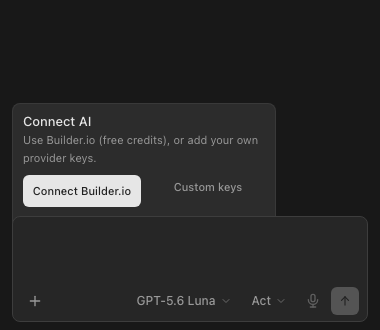
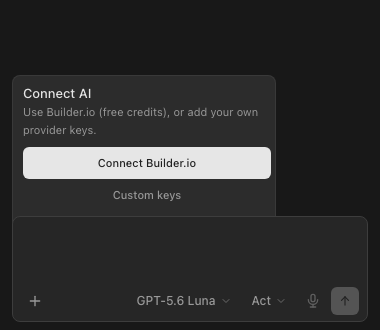
chore: publish branch work in .screenshots/chat-right-sidebar-provider-actions-equal-width.png, .screenshots/chat-right-sidebar-provider-actions-full-width-stacked.png, .screenshots/chat-web-provider-actions-equal-width.png, … (19 files)

Changed region(s): [[0.0579, 0.3333, 0.7237, 0.6364], [0.0579, 0.2727, 0.2605, 0.303], [0.6947, 0.2121, 0.7237, 0.2424]]

diff --git a/packages/mobile-app/app/(tabs)/sessions.tsx b/packages/mobile-app/app/(tabs)/sessions.tsx
@@ -540,7 +540,7 @@ export default function SessionsScreen() {
           )}
           {notice && (
             <View className="flex-row items-center gap-2 p-3 rounded-lg bg-success-bg border border-success-border my-2">
-              <Feather name="check-circle" size={16} color="#86EFAC" />
+              <Feather name="check-circle" size={16} color="#d4d4d8" />
               <Text className="flex-1 text-success-text text-sm">{notice}</Text>
             </View>
           )}
@@ -956,7 +956,7 @@ function StepRow({ index, text }: { index: string; text: string }) {
 function RelayPill({ state }: { state: RelayState }) {
   const color =
     state === "online"
-      ? "#86EFAC"
+      ? "#d4d4d8"
       : state === "offline"
         ? "#FCA5A5"
         : state === "error"
@@ -1100,7 +1100,7 @@ function HostControls({
             <Feather
               name={pushDone ? "bell" : "bell-off"}
               size={14}
-              color={pushDone ? "#86EFAC" : "#ffffff"}
+              color={pushDone ? "#d4d4d8" : "#ffffff"}
             />
           )}
           <Text
@@ -1300,7 +1300,7 @@ function EmptyInline({
 }
 
 function hostStatusColor(status: RemoteHostStatus): string {
-  if (status === "online") return "#86EFAC";
+  if (status === "online") return "#d4d4d8";
   if (status === "busy") return "#FBBF24";
   if (status === "offline") return "#6B7280";
   return "#9CA3AF";
@@ -1314,7 +1314,7 @@ function hostStatusLabel(host: RemoteHost): string {
 }
 
 function runStatusColor(status: RemoteRunStatus): string {
-  if (status === "completed") return "#86EFAC";
+  if (status === "completed") return "#d4d4d8";
   if (status === "needs-approval") return "#FBBF24";
   if (status === "errored") return "#FCA5A5";
   if (status === "running" || status === "queued") return "#93C5FD";
@@ -1322,7 +1322,7 @@ function runStatusColor(status: RemoteRunStatus): string {
 }
 
 function runStatusBg(status: RemoteRunStatus): string {
-  if (status === "completed") return "#052E16";
+  if (status === "completed") return "#27272a";
   if (status === "needs-approval") return "#422006";
   if (status === "errored") return "#450A0A";
   if (status === "running" || status === "queued") return "#172554";

diff --git a/packages/mobile-app/components/DictationSettings.tsx b/packages/mobile-app/components/DictationSettings.tsx
@@ -182,7 +182,7 @@ export default function DictationSettings() {
                   )
                 }
                 className={`flex-row items-center gap-2.5 px-2.75 py-2.5 border border-border-dim rounded-xl bg-background-pure active:opacity-70 ${
-                  selected ? "border-accent-lime-bright/50 bg-[#20251a]" : ""
+                  selected ? "border-accent-neutral-bright/50 bg-gray-charcoal" : ""
                 }`}
               >
                 <View className="flex-1">
@@ -196,7 +196,7 @@ export default function DictationSettings() {
                 <View
                   className={`w-5 h-5 rounded-full border border-gray-border-dark items-center justify-center ${
                     selected
-                      ? "bg-accent-lime-bright border-accent-lime-bright"
+                      ? "bg-accent-neutral-bright border-accent-neutral-bright"
                       : ""
                   }`}
                 >
@@ -233,7 +233,7 @@ export default function DictationSettings() {
             accessibilityRole="button"
             disabled={saving}
             onPress={() => void savePreferences()}
-            className={`min-w-22.5 h-10 px-3.5 rounded-lg bg-accent-lime-bright flex-row items-center justify-center gap-1.5 active:opacity-70 ${
+            className={`min-w-22.5 h-10 px-3.5 rounded-lg bg-accent-neutral-bright flex-row items-center justify-center gap-1.5 active:opacity-70 ${
               saving ? "opacity-45" : ""
             }`}
           >
@@ -286,7 +286,7 @@ export default function DictationSettings() {
             accessibilityRole="button"
             disabled={!term.trim() || editingVocabulary}
             onPress={() => void addTerm()}
-            className={`w-11 h-11 rounded-lg bg-accent-lime-bright items-center justify-center active:opacity-70 ${
+            className={`w-11 h-11 rounded-lg bg-accent-neutral-bright items-center justify-center active:opacity-70 ${
               !term.trim() || editingVocabulary ? "opacity-45" : ""
             }`}
           >

diff --git a/packages/mobile-app/global.css b/packages/mobile-app/global.css
@@ -8,8 +8,8 @@
   --color-border-dark: #27272a;
   --color-foreground: #fafafa;
 
-  --color-accent-green: #9ad6b0;
-  --color-accent-lime-bright: #e4e4e7;
+  --color-accent-neutral: #d4d4d8;
+  --color-accent-neutral-bright: #e4e4e7;
   --color-accent-blue: #8dd7ff;
   --color-accent-pink: #f4a7ff;
   --color-accent-orange: #ffd38d;
@@ -26,11 +26,11 @@
   --color-text-muted: #a1a1aa;
   --color-text-light: #d4d4d8;
 
-  --color-accent-green-dim: #202820;
-  --color-accent-green-dark: #171c19;
-  --color-accent-green-border: #35453a;
-  --color-accent-green-medium: #233027;
-  --color-accent-green-medium-dark: #242d28;
+  --color-accent-neutral-dim: #27272a;
+  --color-accent-neutral-dark: #18181b;
+  --color-accent-neutral-border: #3f3f46;
+  --color-accent-neutral-medium: #303033;
+  --color-accent-neutral-medium-dark: #242426;
   --color-gray-medium-dark: #202020;
   --color-gray-border-light: #333333;
   --color-gray-border-dim: rgba(51, 51, 51, 0.4);
@@ -46,9 +46,9 @@
   --color-warning-yellow-border: #5f420d;
   --color-warning-yellow-text: #f5d999;
 
-  --color-success-bg: #102015;
-  --color-success-border: #14532d;
-  --color-success-text: #bbf7d0;
+  --color-success-bg: #27272a;
+  --color-success-border: #3f3f46;
+  --color-success-text: #d4d4d8;
 
   --color-background-pure: #111111;
   --color-gray-charcoal: #27272a;

diff --git a/packages/core/src/styles/agent-native.css b/packages/core/src/styles/agent-native.css
@@ -873,6 +873,11 @@
   padding-inline: 0 !important;
 }
 
+.agent-builder-setup-card--sidebar {
+  container-type: inline-size;
+  container-name: agent-builder-setup;
+}
+
 .agent-builder-setup-inline--attached {
   position: relative;
   z-index: 1;
@@ -913,6 +918,20 @@
 .agent-builder-setup-card--sidebar .agent-builder-setup-card__key-button:hover {
   background: transparent;
   color: hsl(var(--foreground));
+}
+
+.agent-builder-setup-card__content > .agent-builder-setup-card__actions {
+  flex: 1 1 auto;
+}
+
+.agent-builder-setup-card__actions
+  > :is(
+    .agent-builder-setup-card__builder-cta,
+    .agent-builder-setup-card__builder-button,
+    .agent-builder-setup-card__key-button
+  ) {
+  flex: 1 1 0;
+  min-width: 0;
 }
 
 @container agent-builder-setup (max-width: 560px) {
@@ -965,6 +984,11 @@
   .agent-builder-setup-card__builder-cta,
   .agent-builder-setup-card__key-button {
     align-self: stretch;
+    flex: 0 0 auto;
+    width: 100%;
+  }
+
+  .agent-builder-setup-card__actions > .agent-builder-setup-card__builder-button {
     flex: 0 0 auto;
     width: 100%;
   }

diff --git a/packages/mobile-app/targets/AgentNativeWatch/AgentNativeWatchApp.swift b/packages/mobile-app/targets/AgentNativeWatch/AgentNativeWatchApp.swift
@@ -197,7 +197,7 @@ struct ContentView: View {
     VStack(spacing: 12) {
       Image(systemName: capture.isRecording ? "waveform.circle.fill" : "mic.circle.fill")
         .font(.system(size: 42))
-        .foregroundStyle(capture.isRecording ? .red : Color.green)
+        .foregroundStyle(capture.isRecording ? .red : Color(white: 0.84))
       Text(capture.isRecording ? duration(capture.elapsedSeconds) : capture.message)
         .font(capture.isRecording ? .title3.monospacedDigit() : .caption)
         .multilineTextAlignment(.center)
@@ -205,7 +205,7 @@ struct ContentView: View {
         capture.toggleRecording()
       }
       .buttonStyle(.borderedProminent)
-      .tint(capture.isRecording ? .red : .green)
+      .tint(capture.isRecording ? .red : Color(white: 0.84))
       if capture.pendingTransfers > 0 {
         Text("\(capture.pendingTransfers) waiting to sync")
           .font(.caption2)

diff --git a/packages/mobile-app/components/AudioCaptureView.tsx b/packages/mobile-app/components/AudioCaptureView.tsx
@@ -429,7 +429,7 @@ export default function AudioCaptureView({
 
       <View className="items-center flex-1 justify-center">
         <View
-          className={`items-center bg-card-dark border border-border-dark rounded-full h-24 justify-center mb-7 w-24 ${isActive ? "bg-primary border-accent-lime-bright" : ""}`}
+          className={`items-center bg-card-dark border border-border-dark rounded-full h-24 justify-center mb-7 w-24 ${isActive ? "bg-primary border-accent-neutral-bright" : ""}`}
         >
           <IconMicrophone
             color={isActive ? "#0b0b0c" : "#f4f4f5"}

diff --git a/packages/mobile-app/targets/AgentNativeWidgets/AgentNativeWidgets.swift b/packages/mobile-app/targets/AgentNativeWidgets/AgentNativeWidgets.swift
@@ -3,7 +3,7 @@ import AppIntents
 import SwiftUI
 import WidgetKit
 
-private let captureAccent = Color(red: 0.78, green: 0.95, blue: 0.42)
+private let captureAccent = Color(white: 0.84)
 
 private struct CapturePhasePresentation {
   let color: Color
@@ -25,7 +25,7 @@ private struct CapturePhasePresentation {
       icon = "exclamationmark.triangle.fill"
       title = "Capture needs recovery"
     case "completed":
-      color = .green
+      color = .gray
       icon = "checkmark.circle.fill"
       title = "Capture saved"
     case "discarded":

diff --git a/packages/mobile-app/targets/AgentNativeKeyboard/KeyboardViewController.swift b/packages/mobile-app/targets/AgentNativeKeyboard/KeyboardViewController.swift
@@ -90,7 +90,7 @@ final class KeyboardViewController: UIInputViewController {
   private func configurePrimaryButton(_ button: UIButton, title: String) {
     var configuration = UIButton.Configuration.filled()
     configuration.title = title
-    configuration.baseBackgroundColor = UIColor(red: 0.78, green: 0.95, blue: 0.42, alpha: 1)
+    configuration.baseBackgroundColor = UIColor(white: 0.84, alpha: 1)
     configuration.baseForegroundColor = .black
     configuration.cornerStyle = .large
     button.configuration = configuration

diff --git a/packages/mobile-app/components/NativeClipsLibrary.tsx b/packages/mobile-app/components/NativeClipsLibrary.tsx
@@ -179,7 +179,7 @@ function EmptyLibrary({
 }) {
   return (
     <View className="flex-1 items-center justify-center px-7 py-18">
-      <View className="w-14 h-14 rounded-2xl bg-accent-green-dim items-center justify-center mb-4.5">
+      <View className="w-14 h-14 rounded-2xl bg-accent-neutral-dim items-center justify-center mb-4.5">
         {searching ? (
           <IconSearch color="#d4d4d8" size={25} strokeWidth={1.7} />
         ) : (

diff --git a/packages/mobile-app/components/chat/MessageBubbles.tsx b/packages/mobile-app/components/chat/MessageBubbles.tsx
@@ -249,7 +249,7 @@ export function ActivityRow({ label }: { label: string }) {
       entering={FadeIn.duration(200)}
       className="flex-row items-center gap-2 px-4 py-1.5"
     >
-      <View className="w-1.5 h-1.5 rounded-full bg-accent-green" />
+      <View className="w-1.5 h-1.5 rounded-full bg-accent-neutral" />
       <Text className="text-status-gray text-[13px]">{label}</Text>
     </Animated.View>
   );

diff --git a/packages/mobile-app/components/chat/MobileWorkspaceControls.tsx b/packages/mobile-app/components/chat/MobileWorkspaceControls.tsx
@@ -245,7 +245,7 @@ function RemoteWaitlistModal({
             </Pressable>
           </View>
           {joined ? (
-            <Text className="text-emerald-400 text-[13px] leading-5 mt-4">
+            <Text className="text-text-light text-[13px] leading-5 mt-4">
               You are on the waitlist. We will email you when remote access
               opens.
             </Text>

diff --git a/packages/mobile-app/components/chat/MarkdownText.tsx b/packages/mobile-app/components/chat/MarkdownText.tsx
@@ -174,7 +174,7 @@ function InlineText({
           return (
             <Text
               key={index}
-              className="text-accent-green text-[13.5px]"
+              className="text-accent-neutral text-[13.5px]"
               style={{ fontFamily: MONO_FONT }}
             >
               <TextFadeInStaggeredIfStreaming startIndex={tokenStart}>
